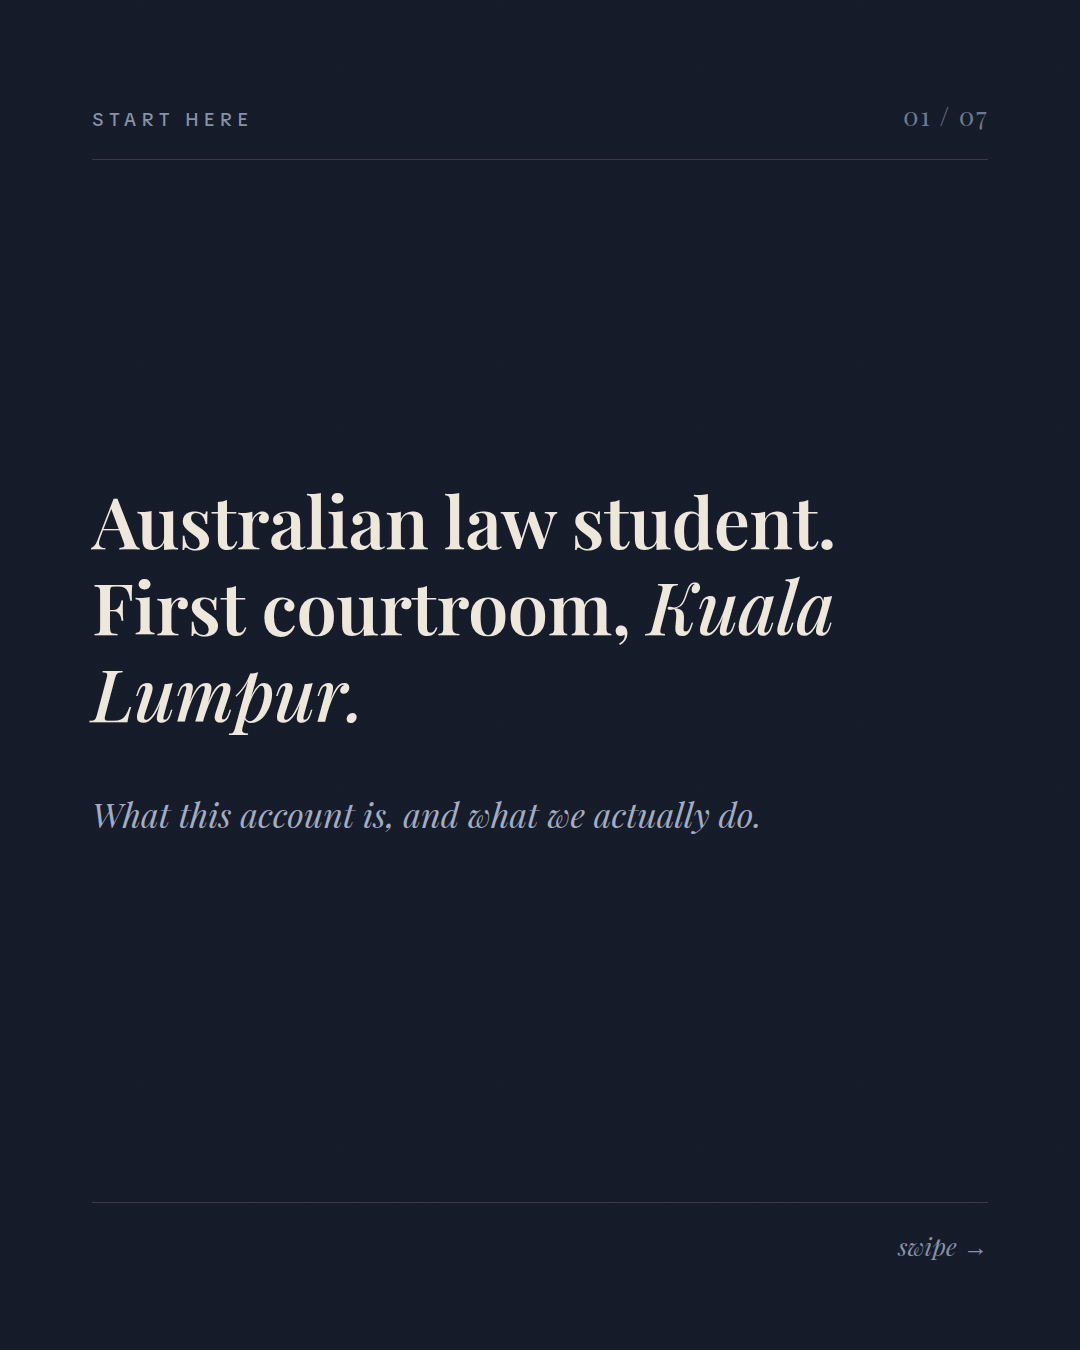
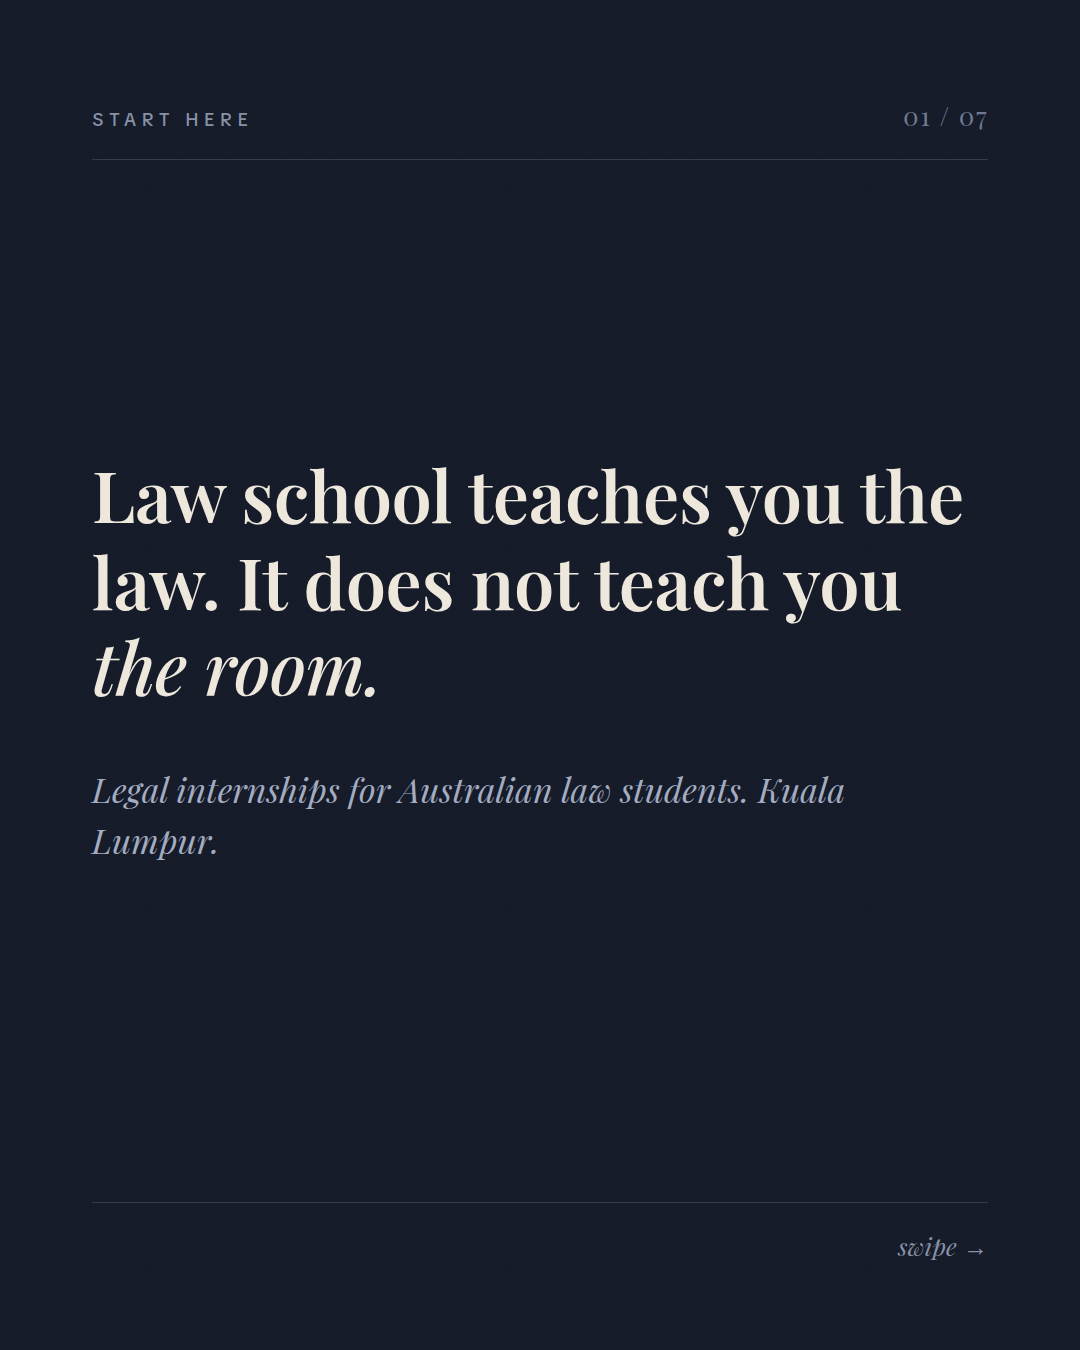
Recut pinned slides 1 and 4
- slide 1: replace the descriptive label with a hook, law school teaches you
  the law, it does not teach you the room
- slide 4: drop the comparative common law framing, which answers a question
  students are not asking, and replace with the clerkship timing problem

Claude-Session: https://claude.ai/code/session_01JRjeUUcoRT5GxuTf3inkfN

Changed region(s): [[0.0917, 0.3422, 0.8861, 0.6533], [0.7028, 0.56, 0.7944, 0.5911]]

diff --git a/tools/carousel/pinned.py b/tools/carousel/pinned.py
@@ -104,8 +104,8 @@ def slide(n, kicker, inner, cite="", light=False, swipe=False):
     (OUT / f"pin{n:02d}.html").write_text(html)
 
 slide(1, "Start Here",
-  '<div class="statement lg">Australian law student. First courtroom, <em>Kuala Lumpur.</em></div>'
-  '<div class="sub">What this account is, and what we actually do.</div>',
+  '<div class="statement lg">Law school teaches you the law. It does not teach you <em>the room.</em></div>'
+  '<div class="sub">Legal internships for Australian law students. Kuala Lumpur.</div>',
   swipe=True)
 
 slide(2, "Who We Are",
@@ -121,10 +121,10 @@ slide(3, "What You Do",
   '<div><b>Career insight.</b> Ask the questions your lecturers cannot answer.</div>'
   '</div>')
 
-slide(4, "Why Malaysia",
-  '<div class="statement md">A common law system, with a <em>different</em> answer to the same questions.</div>'
-  '<div class="body"><p>Malaysia inherited English common law, so the structure is familiar. Precedent, submissions, the lot.</p>'
-  '<p>What differs is everything built on top. That contrast is the whole point.</p></div>',
+slide(4, "Why Not Home",
+  '<div class="statement md">In Australia you wait years for a <em>clerkship</em> that may not come.</div>'
+  '<div class="body"><p>Most firms will not look at you until penultimate year, and then a few hundred people apply for the same handful of seats.</p>'
+  '<p>Kuala Lumpur is a working legal hub. You can be in the room now.</p></div>',
   light=True)
 
 slide(5, "Why It Matters",

diff --git a/reports/assets/pinned/POSTING-KIT.md b/reports/assets/pinned/POSTING-KIT.md
@@ -13,6 +13,8 @@ Post it as a normal carousel first. Then go to the post, tap the three dots at t
 
 ## Instagram caption (copy-paste)
 
+Law school teaches you the law. It does not teach you the room.
+
 If you have just landed here, this is what we do.
 
 Lawgistics places Australian law students in legal internships in Kuala Lumpur. Not a study tour, not a conference. You are placed in a working legal environment with practising lawyers.
@@ -25,7 +27,7 @@ Practical experience. You work alongside lawyers on live matters.
 
 Career insight. You get to ask the questions your lecturers cannot answer, because they have not been in practice for fifteen years.
 
-Why Malaysia. It inherited English common law, so the structure is familiar the second you walk in. Precedent, submissions, the lot. What differs is everything built on top of it, and that contrast is the entire point. You learn more about the Australian system by watching a different one.
+Why not just do it at home. Because in Australia most firms will not look at you until penultimate year, and then several hundred people apply for the same handful of clerkship seats. Kuala Lumpur is a working legal hub and you can be in the room now, in any year of your degree.
 
 Why it matters for you. Every single person applying for a clerkship has a transcript. Almost none of them have watched a matter run in a foreign jurisdiction and can say something intelligent about it. That is an interview answer nobody else in the room has.
 
@@ -45,9 +47,9 @@ Most law students will graduate having never been inside a courtroom that was no
 
 That is the gap Lawgistics exists to close. We place Australian law students in legal internships in Kuala Lumpur, working alongside practising lawyers and sitting in on real proceedings.
 
-Malaysia is a deliberate choice. It inherited English common law, so the architecture is immediately legible to an Australian student. Precedent, submissions, the shape of an argument. What sits on top of that shared foundation is different, and students consistently tell us they understood the Australian system better after watching another one operate.
+The structural problem this solves is timing. In Australia most firms will not consider a student until penultimate year, and the clerkship rounds that follow are heavily oversubscribed. A student can therefore reach their fourth year of a law degree without having seen a matter run.
 
-The practical case is simpler still. Every applicant for a clerkship has a transcript. Very few can speak, in an interview, about a matter they watched run in another jurisdiction and what it taught them about advocacy. That is a differentiator that does not require a distinction average to earn.
+The practical case is simple. Every applicant for a clerkship has a transcript. Very few can speak, in an interview, about a matter they watched run in another jurisdiction and what it taught them about advocacy. That is a differentiator that does not require a distinction average to earn.
 
 Open to students in any year of an Australian law degree, and to recent graduates. No prior legal experience required.
 
@@ -63,7 +65,8 @@ I wrote this from what is in the account brief, so every claim is one you have a
 |---|---|---|
 | "for the length of the program" (slide 2) | slide only | Fine as written, it avoids naming a duration. Swap in the real duration if you would rather be specific. |
 | "Work alongside practising lawyers on live matters" (slide 3) | slide + caption | Confirm this matches what placements actually involve. If interns observe rather than work on matters, tell me and I will change it to observation language. This is the one claim a prospective applicant could hold you to. |
+| "Most firms will not look at you until penultimate year" (slide 4) | slide + caption | True of the major firm clerkship rounds, which is what students mean by a clerkship. Says "most", not "all", so smaller firms and volunteer work are not contradicted. You know this market better than I do, so change it if it overstates. |
 
-Everything else, courtroom access, career insight, common law inheritance, open to all year levels, is either from the brief or general public knowledge about Malaysia's legal system.
+Everything else, courtroom access, career insight, open to all year levels, is from the brief.
 
 **Deliberately left out:** dates, deadlines, cost, number of places, named firms or courts. All of it points to the link in bio instead, which is what keeps the post pinnable indefinitely.
